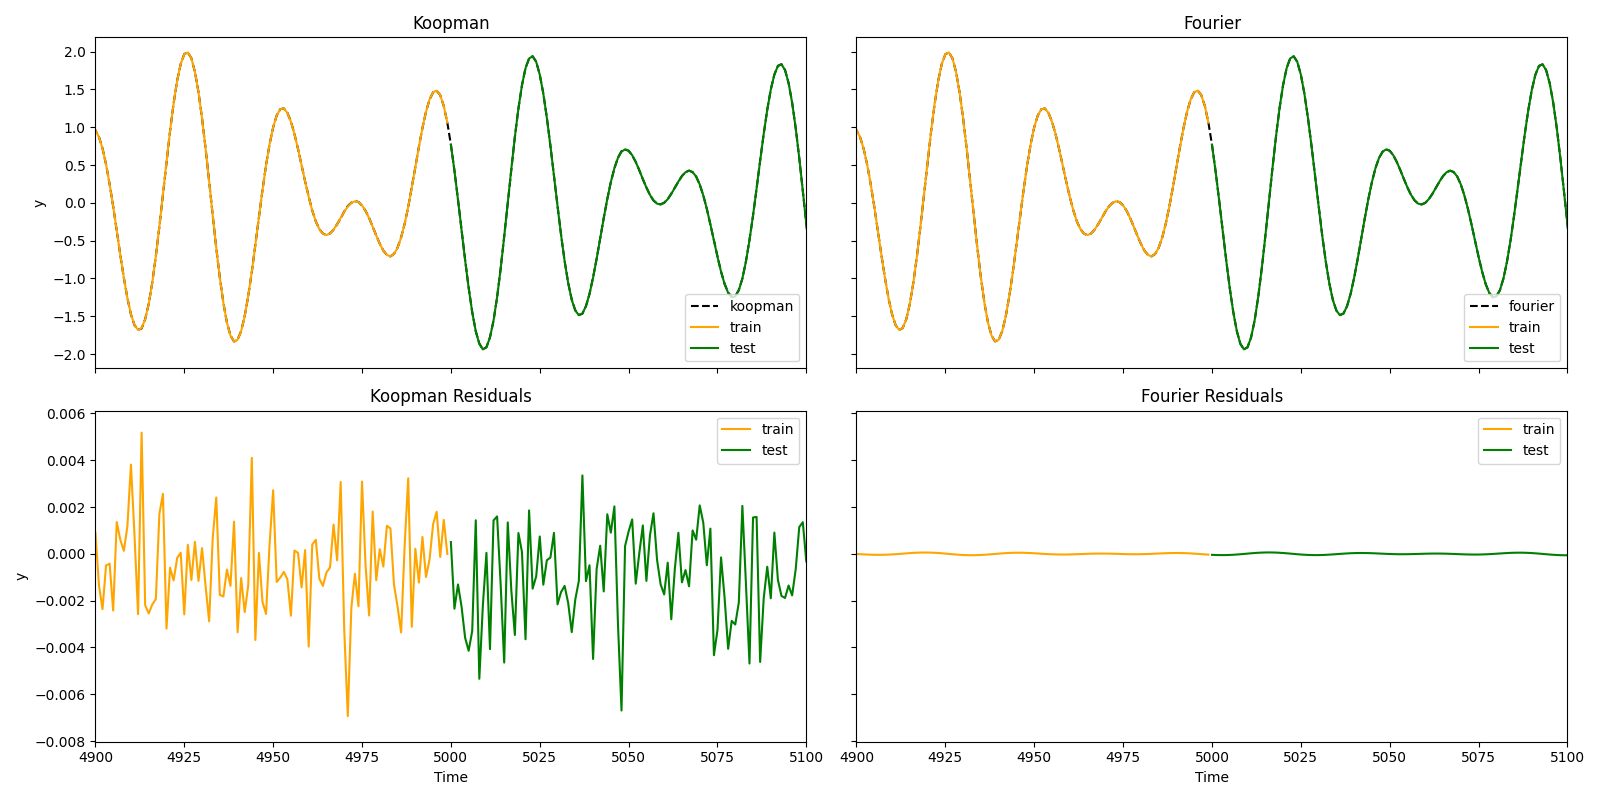
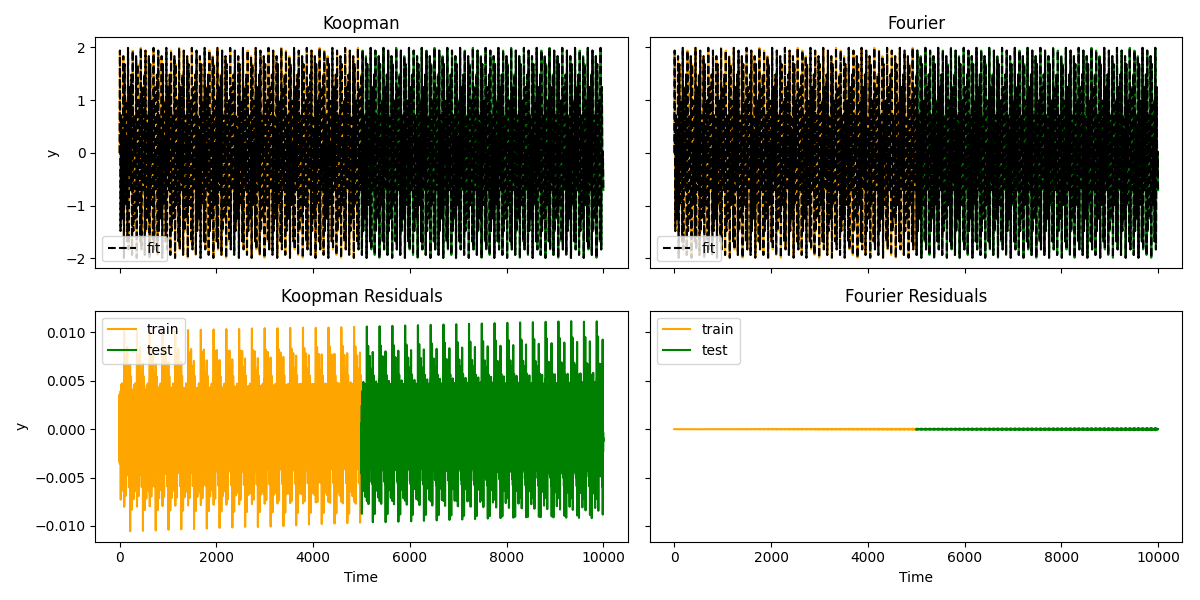
improve figures and add operational flexibility

diff --git a/main.py b/main.py
@@ -102,7 +102,34 @@ class data:
         x_test = x[split:]
         return x_train,x_test,split
          
-def main(data,data_kwargs,normalize,num_freqs_fourier,num_freqs_koopman,n_neurons,n_layers,fit_kwargs,figname,sample_num,zoom = False):
+
+def plot(x_train,x_test,xhat_fourier,xhat_koopman,split,size):
+    fig,axs = plt.subplots(2,2,figsize = (12,6),sharex='col', sharey='row')
+    axs[0,0].plot(np.arange(split),x_train,color = 'orange')
+    axs[0,0].plot(np.arange(split,size),x_test,color = 'green')
+    axs[0,0].plot(np.arange(size),xhat_koopman,label = 'fit',linestyle = '--',color = 'black')
+    axs[0,0].legend(loc = 'lower left')
+    axs[0,0].set_title('Koopman')
+    axs[0,1].plot(np.arange(split),x_train,color = 'orange')
+    axs[0,1].plot(np.arange(split,size),x_test,color = 'green')
+    axs[0,1].plot(np.arange(size),xhat_fourier,label = 'fit',linestyle = '--',color = 'black')
+    axs[0,1].legend(loc = 'lower left')
+    axs[0,1].set_title('Fourier')    
+    axs[1,0].plot(np.arange(split),x_train-xhat_koopman[:split],label = 'train',color = 'orange')
+    axs[1,0].plot(np.arange(split,size),x_test-xhat_koopman[split:],label = 'test',color = 'green')
+    axs[1,0].legend(loc = 'upper left')
+    axs[1,0].set_title('Koopman Residuals')
+    axs[1,1].plot(np.arange(split),x_train-xhat_fourier[:split],label = 'train',color = 'orange')
+    axs[1,1].plot(np.arange(split,size),x_test-xhat_fourier[split:],label = 'test',color = 'green')
+    axs[1,1].legend(loc = 'upper left')
+    axs[1,1].set_title('Fourier Residuals')
+    axs[1,1].set_xlabel('Time')
+    axs[0,0].set_ylabel('y')
+    axs[1,0].set_ylabel('y')
+    axs[1,0].set_xlabel('Time')
+    return fig,axs
+
+def main(data,data_kwargs,normalize,num_freqs_fourier,num_freqs_koopman,n_neurons,n_layers,fit_kwargs,figname,sample_num,zoom= ()):
     x_train,x_test,split = data(**data_kwargs)
     size = x_train.shape[0] + x_test.shape[0]
     # plt.figure(figsize = (20,5))
@@ -113,6 +140,9 @@ def main(data,data_kwargs,normalize,num_freqs_fourier,num_freqs_koopman,n_neuron
     f = fourier(num_freqs=num_freqs_fourier)
     if normalize:
         scaled = f.scale(x_train)
+        if "omegas" in fit_kwargs.keys():
+            freqs_input = [1/i for i in fit_kwargs["omegas"]]
+            f.fit(scaled, freqs = freqs_input, iterations = 1000,verbose = True)
         f.fit(scaled, iterations = 1000,verbose = True)
         print(1/f.freqs)
         xhat_fourier = f.predict(size)
@@ -132,36 +162,20 @@ def main(data,data_kwargs,normalize,num_freqs_fourier,num_freqs_koopman,n_neuron
         k.fit(x_train, **fit_kwargs)
         xhat_koopman = k.predict(size)
     ### plot
-    fig,axs = plt.subplots(2,2,figsize = (16,8),sharex='col', sharey='row')
-    axs[0,0].plot(np.arange(split),x_train,label = 'train',color = 'orange')
-    axs[0,0].plot(np.arange(split,size),x_test,label = 'test',color = 'green')
-    axs[0,0].plot(np.arange(size),xhat_koopman,label = 'koopman',linestyle = '--',color = 'black')
-    axs[0,0].legend()
-    axs[0,0].set_title('Koopman')
-    axs[0,1].plot(np.arange(split),x_train,label = 'train',color = 'orange')
-    axs[0,1].plot(np.arange(split,size),x_test,label = 'test',color = 'green')
-    axs[0,1].plot(np.arange(size),xhat_fourier,label = 'fourier',linestyle = '--',color = 'black')
-    axs[0,1].legend()
-    axs[0,1].set_title('Fourier')    
-    axs[1,0].plot(np.arange(split),x_train-xhat_koopman[:split],label = 'train',color = 'orange')
-    axs[1,0].plot(np.arange(split,size),x_test-xhat_koopman[split:],label = 'test',color = 'green')
-    axs[1,0].legend()
-    axs[1,0].set_title('Koopman Residuals')
-    axs[1,1].plot(np.arange(split),x_train-xhat_fourier[:split],label = 'train',color = 'orange')
-    axs[1,1].plot(np.arange(split,size),x_test-xhat_fourier[split:],label = 'test',color = 'green')
-    axs[1,1].legend()
-    axs[1,1].set_title('Fourier Residuals')
-    axs[1,1].set_xlabel('Time')
-    axs[0,0].set_ylabel('y')
-    axs[1,0].set_ylabel('y')
-    axs[1,0].set_xlabel('Time')
-    if zoom:
-        xlim = (split-100, split+100)
-        for ax in axs.flat:
-            ax.set(xlim=xlim)
+    #no zoom
+    fig,axs = plot(x_train,x_test,xhat_fourier,xhat_koopman,split,size)
     plt.tight_layout()
     plt.savefig(f"figures/{figname}.png")
     plt.show()
+    #zoom
+    fig,axs = plot(x_train,x_test,xhat_fourier,xhat_koopman,split,size)
+    xlim = (split-zoom[0], split+zoom[1])
+    for ax in axs.flat:
+        ax.set(xlim=xlim)
+    plt.tight_layout()
+    plt.savefig(f"figures/{figname}_zoom.png")
+    plt.show()
+
 
 params_base = {
     "data": data.artificial,
@@ -186,28 +200,28 @@ params_base = {
         },
     "figname": "artificial",
     "sample_num": 12,
-    "zoom": True,
+    "zoom": (100,100),
     }
 
 
 
 if __name__ == '__main__':
     params = params_base.copy()
-    # ### experiment 1
-    # main(**params)
-    # ### experiment 2
-    # params["data_kwargs"]["noise"] = True
-    # params["figname"] = "artificial_noise"
-    # main(**params)
-    # ### experiment 3
-    # params["data_kwargs"]["noise"] = False
-    # params["data_kwargs"]["nonlinear"] = True
-    # params["figname"] = "artificial_nonlinear"
-    # main(**params)
-    # ### experiment 4
-    # params["data_kwargs"]["noise"] = True
-    # params["figname"] = "artificial_noise_nonlinear"
-    # main(**params)
+    ### experiment 1
+    main(**params)
+    ### experiment 2
+    params["data_kwargs"]["noise"] = True
+    params["figname"] = "artificial_noise"
+    main(**params)
+    ### experiment 3
+    params["data_kwargs"]["noise"] = False
+    params["data_kwargs"]["nonlinear"] = True
+    params["figname"] = "artificial_nonlinear"
+    main(**params)
+    ### experiment 4
+    params["data_kwargs"]["noise"] = True
+    params["figname"] = "artificial_noise_nonlinear"
+    main(**params)
     ### experiment 5
     params["data"] = data.lorenz
     params["data_kwargs"] = {"split_ratio": 0.6}
@@ -219,25 +233,27 @@ if __name__ == '__main__':
     params["fit_kwargs"]["interval"] = 25
     params["fit_kwargs"]["iterations"] = 1000
     params["fit_kwargs"]["cutoff"] = 500
-    params["zoom"] = False
+    params["fit_kwargs"]["lr_omega"] = 1e-5
+    params["zoom"] = (1000,1000)
     params["normalize"] = True
+
     main(**params)
     ### experiment 6
-    # params["data"] = data.energy_consumption
-    # params["data_kwargs"] = {"split_ratio": 0.6}
-    # params["figname"] = "energy_consumption"
-    # params["num_freqs_fourier"] = 8
-    # params["num_freqs_koopman"] = 8
-    # params["n_neurons"] = 128
-    # params["n_layers"] = 2
-    # params["fit_kwargs"]["interval"] = 5
-    # params["fit_kwargs"]["iterations"] = 100
-    # params["fit_kwargs"]["cutoff"] = 50
-    # params["fit_kwargs"]["omegas"] = [12,24,48,96,168,672,8760,17520]
-    # params["zoom"] = False
-    # params["sample_num"] = 24
-    # params["normalize"] = True
-    # main(**params)
+    params["data"] = data.energy_consumption
+    params["data_kwargs"] = {"split_ratio": 0.6}
+    params["figname"] = "energy_consumption"
+    params["num_freqs_fourier"] = 24
+    params["num_freqs_koopman"] = 24
+    params["n_neurons"] = 512
+    params["n_layers"] = 2
+    params["fit_kwargs"]["interval"] = 20
+    params["fit_kwargs"]["iterations"] = 250
+    params["fit_kwargs"]["cutoff"] = 150
+    params["fit_kwargs"]["omegas"] = [24,168,8760]
+    params["zoom"] = (300,600)
+    params["sample_num"] = 24
+    params["normalize"] = True
+    main(**params)
 
 
 

diff --git a/fourier_koopman/fourier.py b/fourier_koopman/fourier.py
@@ -67,7 +67,7 @@ class fourier:
 
 
 
-    def fft(self, xt):
+    def fft(self, xt,freqs=None):
         '''
         Given temporal data xt, fft performs the initial guess of the 
         frequencies contained in the data using the FFT.
@@ -86,8 +86,14 @@ class fourier:
         
         k = self.num_freqs
         self.freqs = []
-        
-        for i in range(k):
+        if freqs:
+            self.freqs = freqs
+            n_input_freqs = len(freqs)
+            if n_input_freqs < k:
+                self.freqs = self.freqs + [0]*(k-n_input_freqs)
+        else:
+            n_input_freqs = 0
+        for i in range(n_input_freqs,k):
         
             N = len(xt)
             
@@ -182,7 +188,7 @@ class fourier:
         
         
         
-    def fit(self, xt, learning_rate = 1E-5, iterations = 1000, verbose=False):
+    def fit(self, xt, learning_rate = 1E-5, iterations = 1000, verbose=False,freqs=None):
         '''
         
         Parameters
@@ -202,7 +208,7 @@ class fourier:
 
         '''
         
-        self.fft(xt)
+        self.fft(xt,freqs)
         self.sgd(xt, iterations = iterations, 
                     learning_rate = learning_rate/xt.shape[0],
                     verbose = verbose)

diff --git a/fourier_koopman/koopman.py b/fourier_koopman/koopman.py
@@ -338,11 +338,17 @@ class koopman(nn.Module):
         if omegas:
             self.omegas = torch.tensor(omegas, device = self.device,dtype=torch.get_default_dtype())
             self.omegas = 2*np.pi/self.omegas
-
+            if self.num_freq>len(omegas):
+                self.omegas = torch.cat([self.omegas, torch.rand(self.num_freq-len(omegas), device=self.device)])
+        
         for i in range(iterations):
             if not omegas: # if omegas are not given, we need to compute them
                 if i%interval == 0 and i < cutoff: 
                     for k in range(self.num_freq):
+                        self.fft(xt, k, verbose=verbose)
+            elif self.num_freq>len(omegas):
+                if i%interval == 0 and i < cutoff: 
+                    for k in range(len(omegas),self.num_freq):
                         self.fft(xt, k, verbose=verbose)
                 
             if verbose:
